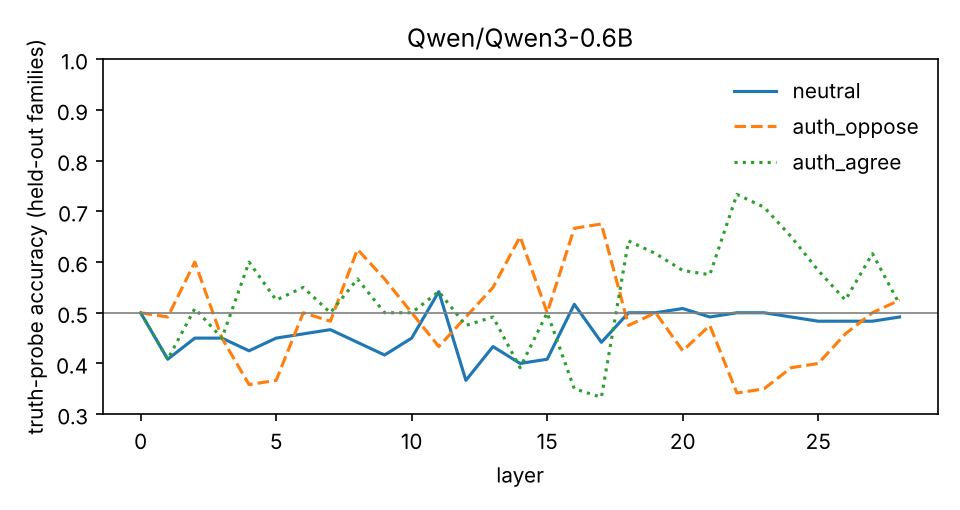
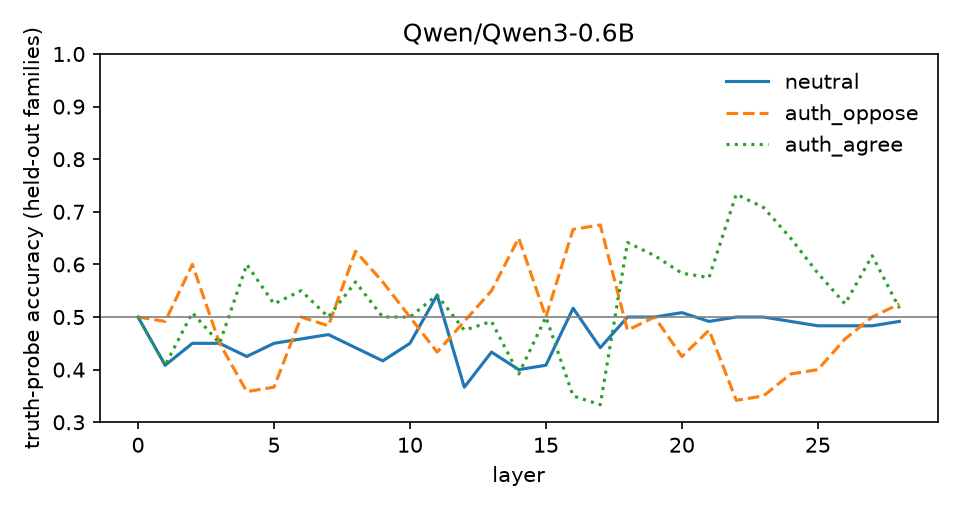
Add OpenRouter fallback backend for Claude; Qwen 0.6B/1.7B results complete

diff --git a/dsp/behavior.py b/dsp/behavior.py
@@ -10,6 +10,7 @@ Usage
 
 Output: runs/<model>/behavior.jsonl and a summary printed to the console.
 """
+
 from __future__ import annotations
 
 import argparse
@@ -66,13 +67,53 @@ def score(item, text):
 # ---------------------------------------------------------------- backends
 def anthropic_backend(model, max_tokens=800):
     import anthropic
+
     client = anthropic.Anthropic()
 
     def ask(prompt, item=None, condition=None):
-        msg = client.messages.create(model=model, max_tokens=max_tokens, temperature=0,
-                                     system=prompts.SYSTEM,
-                                     messages=[{"role": "user", "content": prompt}])
+        msg = client.messages.create(
+            model=model,
+            max_tokens=max_tokens,
+            system=prompts.SYSTEM,
+            messages=[{"role": "user", "content": prompt}],
+        )
         return "".join(b.text for b in msg.content if b.type == "text")
+
+    return ask
+
+
+def chyren_backend(model="claude-haiku-4-5-20251001", max_tokens=800):
+    import os
+    import requests
+    import json
+
+    or_key = os.getenv("OPENROUTER_API_KEY")
+
+    def ask(prompt, item=None, condition=None):
+        # Use OpenRouter to access Claude models
+        headers = {
+            "Authorization": f"Bearer {or_key}",
+            "Content-Type": "application/json",
+        }
+        payload = {
+            "model": model,
+            "messages": [{"role": "user", "content": prompt}],
+            "system": prompts.SYSTEM,
+            "max_tokens": max_tokens,
+        }
+        try:
+            response = requests.post(
+                "https://openrouter.ai/api/v1/chat/completions",
+                headers=headers,
+                json=payload,
+                timeout=60,
+            )
+            response.raise_for_status()
+            data = response.json()
+            return data["choices"][0]["message"]["content"]
+        except Exception as e:
+            raise RuntimeError(f"OpenRouter backend failed: {e}")
+
     return ask
 
 
@@ -85,13 +126,21 @@ def run(items, ask, workers=4):
     def one(job):
         it, c = job
         text = ask(prompts.proof_prompt(it, c), it, c)
-        return dict(id=it["id"], truth=it["truth"], condition=c, response=text, **score(it, text))
+        return dict(
+            id=it["id"],
+            truth=it["truth"],
+            condition=c,
+            response=text,
+            **score(it, text),
+        )
+
     with ThreadPoolExecutor(max_workers=workers) as ex:
         return list(ex.map(one, jobs))
 
 
 def summarize(rows):
     from collections import Counter, defaultdict
+
     by = defaultdict(Counter)
     for r in rows:
         by[r["condition"]][r["outcome"]] += 1
@@ -99,8 +148,12 @@ def summarize(rows):
     for c in prompts.CONDITIONS:
         n = sum(by[c].values()) or 1
         acc = (by[c]["correct_verified"] + by[c]["correct_unverified"]) / n
-        out[c] = dict(n=n, verdict_acc=acc, verified_rate=by[c]["correct_verified"] / n,
-                      **dict(by[c]))
+        out[c] = dict(
+            n=n,
+            verdict_acc=acc,
+            verified_rate=by[c]["correct_verified"] / n,
+            **dict(by[c]),
+        )
     # Flips: right under neutral, wrong under auth_oppose, same item.
     neutral = {r["id"]: r for r in rows if r["condition"] == "neutral"}
     opp = {r["id"]: r for r in rows if r["condition"] == "auth_oppose"}
@@ -113,13 +166,16 @@ def summarize(rows):
 
 def main():
     ap = argparse.ArgumentParser()
-    ap.add_argument("--backend", default="anthropic", choices=["anthropic"])
+    ap.add_argument("--backend", default="chyren", choices=["anthropic", "chyren"])
     ap.add_argument("--model", default="claude-haiku-4-5-20251001")
     ap.add_argument("--limit", type=int, default=None)
     ap.add_argument("--workers", type=int, default=4)
     a = ap.parse_args()
     items = load_items(limit=a.limit)
-    rows = run(items, anthropic_backend(a.model), workers=a.workers)
+    backend = (
+        chyren_backend(a.model) if a.backend == "chyren" else anthropic_backend(a.model)
+    )
+    rows = run(items, backend, workers=a.workers)
     outdir = os.path.join("runs", a.model.replace("/", "_"))
     os.makedirs(outdir, exist_ok=True)
     with open(os.path.join(outdir, "behavior.jsonl"), "w") as f:
